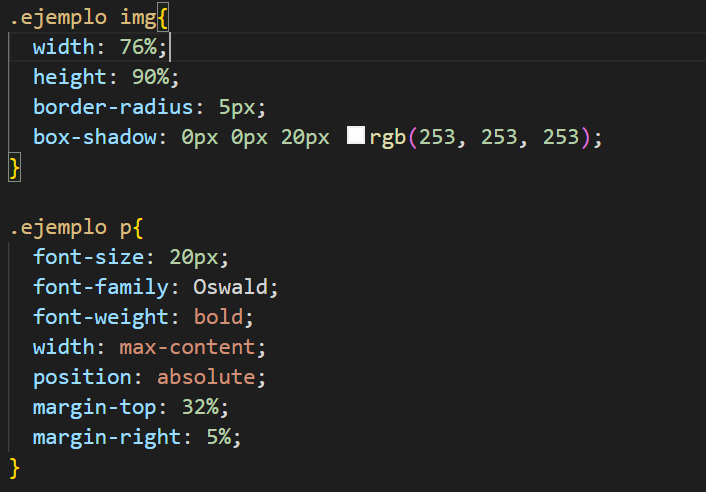
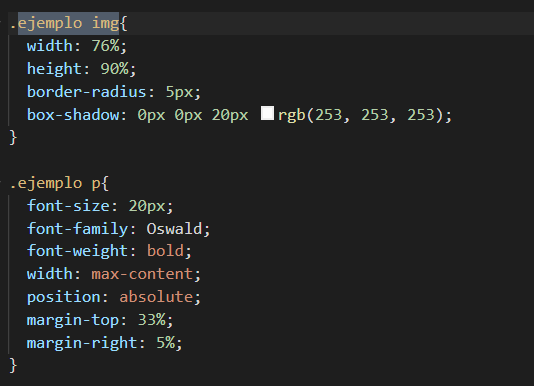
update

Changed region(s): [[0.0, 0.4352, 0.3895, 0.9326], [0.0, 0.0, 0.8689, 0.3731], [0.0, 0.9326, 0.03, 0.9637]]

diff --git a/4. Lenguaje-de-Marcas/Trabajos/Comienzo CSS/Practica1.css b/4. Lenguaje-de-Marcas/Trabajos/Comienzo CSS/Practica1.css
@@ -53,7 +53,7 @@ body{
 header{
   width: 100%;
   background-color: black;
-  min-height: 20%;
+  min-height: 40%;
   justify-content: center;
   align-items: center;
   display: flex;
@@ -65,6 +65,7 @@ footer{
   width: 100%;
   background-color: black;
   min-height: 600px;
+  margin-bottom: 2000px;
   justify-content: center;
   align-items: center;
   display: flex;
@@ -85,9 +86,12 @@ height: 803px;
 }
 
 .selectores{
-width: 30%;
+width: 29.8%;
 height: 100%;
-background-color: lightblue;
+font-size: 30px;
+box-shadow: 1px 5px 15px black;
+border-right: solid 2px #2D2D2D;
+background-color: #186A3B;
 float: left;
 
 }
@@ -108,20 +112,22 @@ li {
   margin-top: 12%; 
   text-align: center;
   list-style-type: none;
-  width: 20%;
+  width: 30%;
 }
 
 .button {
   padding: 20px 100px;
   font-size: 16px;
+  font-weight: bold;
   text-align: center;
   cursor: pointer;
-  outline: none;
+  border: solid 7px black;
+  font-family: Lexend;
   color: #fff;
   background-color: #4CAF50;
   border: none;
   border-radius: 25px;
-  box-shadow: 0 9px #999;
+  box-shadow: 0 9px #CDCDCD;
   user-select: none;
   
 }
@@ -146,7 +152,7 @@ li {
   width: 70%;
   height: 100%;
   float: right;
-  background-color: #B7FACA;
+  background-color: #E1E1E1;
   display: flex;
 }
 
@@ -182,12 +188,12 @@ li {
   float: inline-start;
   padding-inline-start: 25px;
   width: 46%;
-  height: 35%;
+  height: 36.6%;
  float: left;
 }
 
 .codigoEjemplo img{
-  max-width: 100%;
+  width: 100%;
   height: 100%;
   border-radius: 5px;
 }
@@ -206,8 +212,8 @@ border-right: solid 1px salmon;
 
 .ejemplo ol {
   padding: 0px 10px;
-  width: 300px;
-  margin-left: 220px;
+  width: 450px;
+  margin-left: 80px;
   background-color: #fff;
   border-radius: 10px;
   box-shadow: 0 0 10px rgba(0, 0, 0, 0.1);
@@ -232,7 +238,8 @@ li:hover {
 
 .ejemplo img{
   width: 76%;
-  height: 90%;
+  height: 100%;
+  margin-left: 90px;
   border-radius: 5px;
   box-shadow: 0px 0px 20px rgb(253, 253, 253);
 }
@@ -241,9 +248,10 @@ li:hover {
   font-size: 20px;
   font-family: Oswald;
   font-weight: bold;
+  color: white;
   width: max-content;
   position: absolute;
-  margin-top: 33%;
+  margin-top: 36%;
   margin-right: 5%;
 }
 
@@ -252,7 +260,7 @@ li:hover {
   background-color: #fff;
   padding: 20px;
   padding-top: 0;
-  margin-left: 94px;
+  margin-left: 74px;
   border-radius: 8px;
   box-shadow: 0 0 10px rgba(0, 0, 0, 0.1);
   width: 900px;
@@ -290,7 +298,7 @@ li:hover {
 .ej5{
   background-color: #fff;
   padding: 20px;
-  margin-left: 94px;
+  margin-left: 74px;
   padding-top: 0;
   border-radius: 8px;
   box-shadow: 0 0 10px rgba(0, 0, 0, 0.1);

diff --git a/4. Lenguaje-de-Marcas/Trabajos/Comienzo CSS/Practica1.html b/4. Lenguaje-de-Marcas/Trabajos/Comienzo CSS/Practica1.html
@@ -15,7 +15,7 @@
 
   <div style="height: 100%; width: 100%;">
     <header>
-      <h1>LA PAGINA DEFINITIVA</h1>
+      <h1>MI PAGINA WEB</h1>
     </header>
 
 
@@ -116,7 +116,7 @@
         <!-- Todas las columnas -->
         <div id="columnas1" class="columnas">
           <div class="ejemplo">
-
+            <img src="assets/Codigo ejercicio 1.png" alt="">
           </div>
 
           <div class="codigoEjemplo">
@@ -194,12 +194,13 @@
 
         </div>
 
-
       </div>
+      <footer>Hola</footer>
     </div>
 
-
+    <footer>Hola</footer>
   </div>
+
 
   </div>
 
